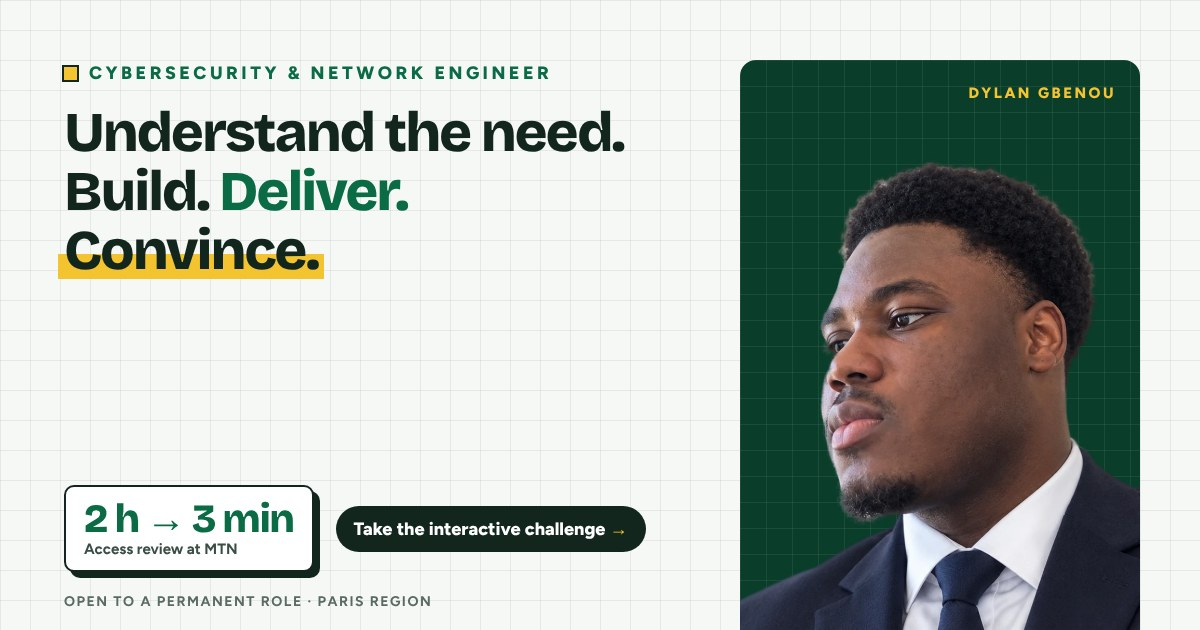
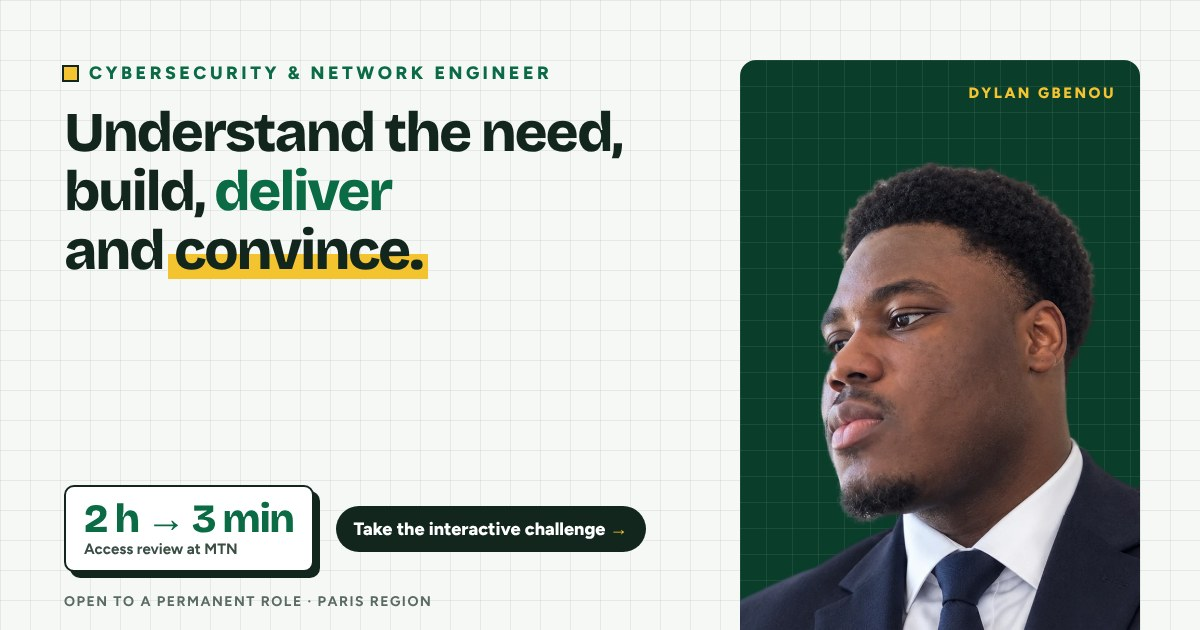
Titre d'accueil en une phrase (virgules), visuels de partage mis à jour
Claude-Session: https://claude.ai/code/session_01K118iVocJvGTYVUdSbesdi

Changed region(s): [[0.0308, 0.2714, 0.37, 0.4524]]

diff --git a/index.html b/index.html
@@ -24,7 +24,7 @@
 <section class="hero" aria-labelledby="h1"><div class="wrap hero__grid">
   <div class="hero__title">
     <p class="eyebrow seq" style="--s:0">Ingénieur cybersécurité &amp; réseaux</p>
-    <h1 id="h1"><span class="l seq" style="--s:1">Comprendre le besoin.</span><span class="l seq" style="--s:2">Construire. <span class="l2">Livrer.</span></span><span class="l seq" style="--s:3"><mark>Convaincre.</mark></span></h1>
+    <h1 id="h1"><span class="l seq" style="--s:1">Comprendre le besoin,</span><span class="l seq" style="--s:2">construire, <span class="l2">livrer</span></span><span class="l seq" style="--s:3">et <mark>convaincre.</mark></span></h1>
   </div>
   <div class="hero__text">
     <p class="hero__lead seq" style="--s:4">Chez MTN Côte d'Ivoire, j'ai fait passer une revue d'accès de <strong>2 heures à 3 minutes</strong>. Je suis Dylan Gbenou, ingénieur cybersécurité et réseaux, et je mène mes projets de A à Z.</p>

diff --git a/en/index.html b/en/index.html
@@ -24,7 +24,7 @@
 <section class="hero" aria-labelledby="h1"><div class="wrap hero__grid">
   <div class="hero__title">
     <p class="eyebrow seq" style="--s:0">Cybersecurity &amp; network engineer</p>
-    <h1 id="h1"><span class="l seq" style="--s:1">Understand the need.</span><span class="l seq" style="--s:2">Build. <span class="l2">Deliver.</span></span><span class="l seq" style="--s:3"><mark>Convince.</mark></span></h1>
+    <h1 id="h1"><span class="l seq" style="--s:1">Understand the need,</span><span class="l seq" style="--s:2">build, <span class="l2">deliver</span></span><span class="l seq" style="--s:3">and <mark>convince.</mark></span></h1>
   </div>
   <div class="hero__text">
     <p class="hero__lead seq" style="--s:4">At MTN Côte d'Ivoire, I cut an access review from <strong>2 hours to 3 minutes</strong>. I'm Dylan Gbenou, a cybersecurity and network engineer, and I see my projects through from A to Z.</p>
